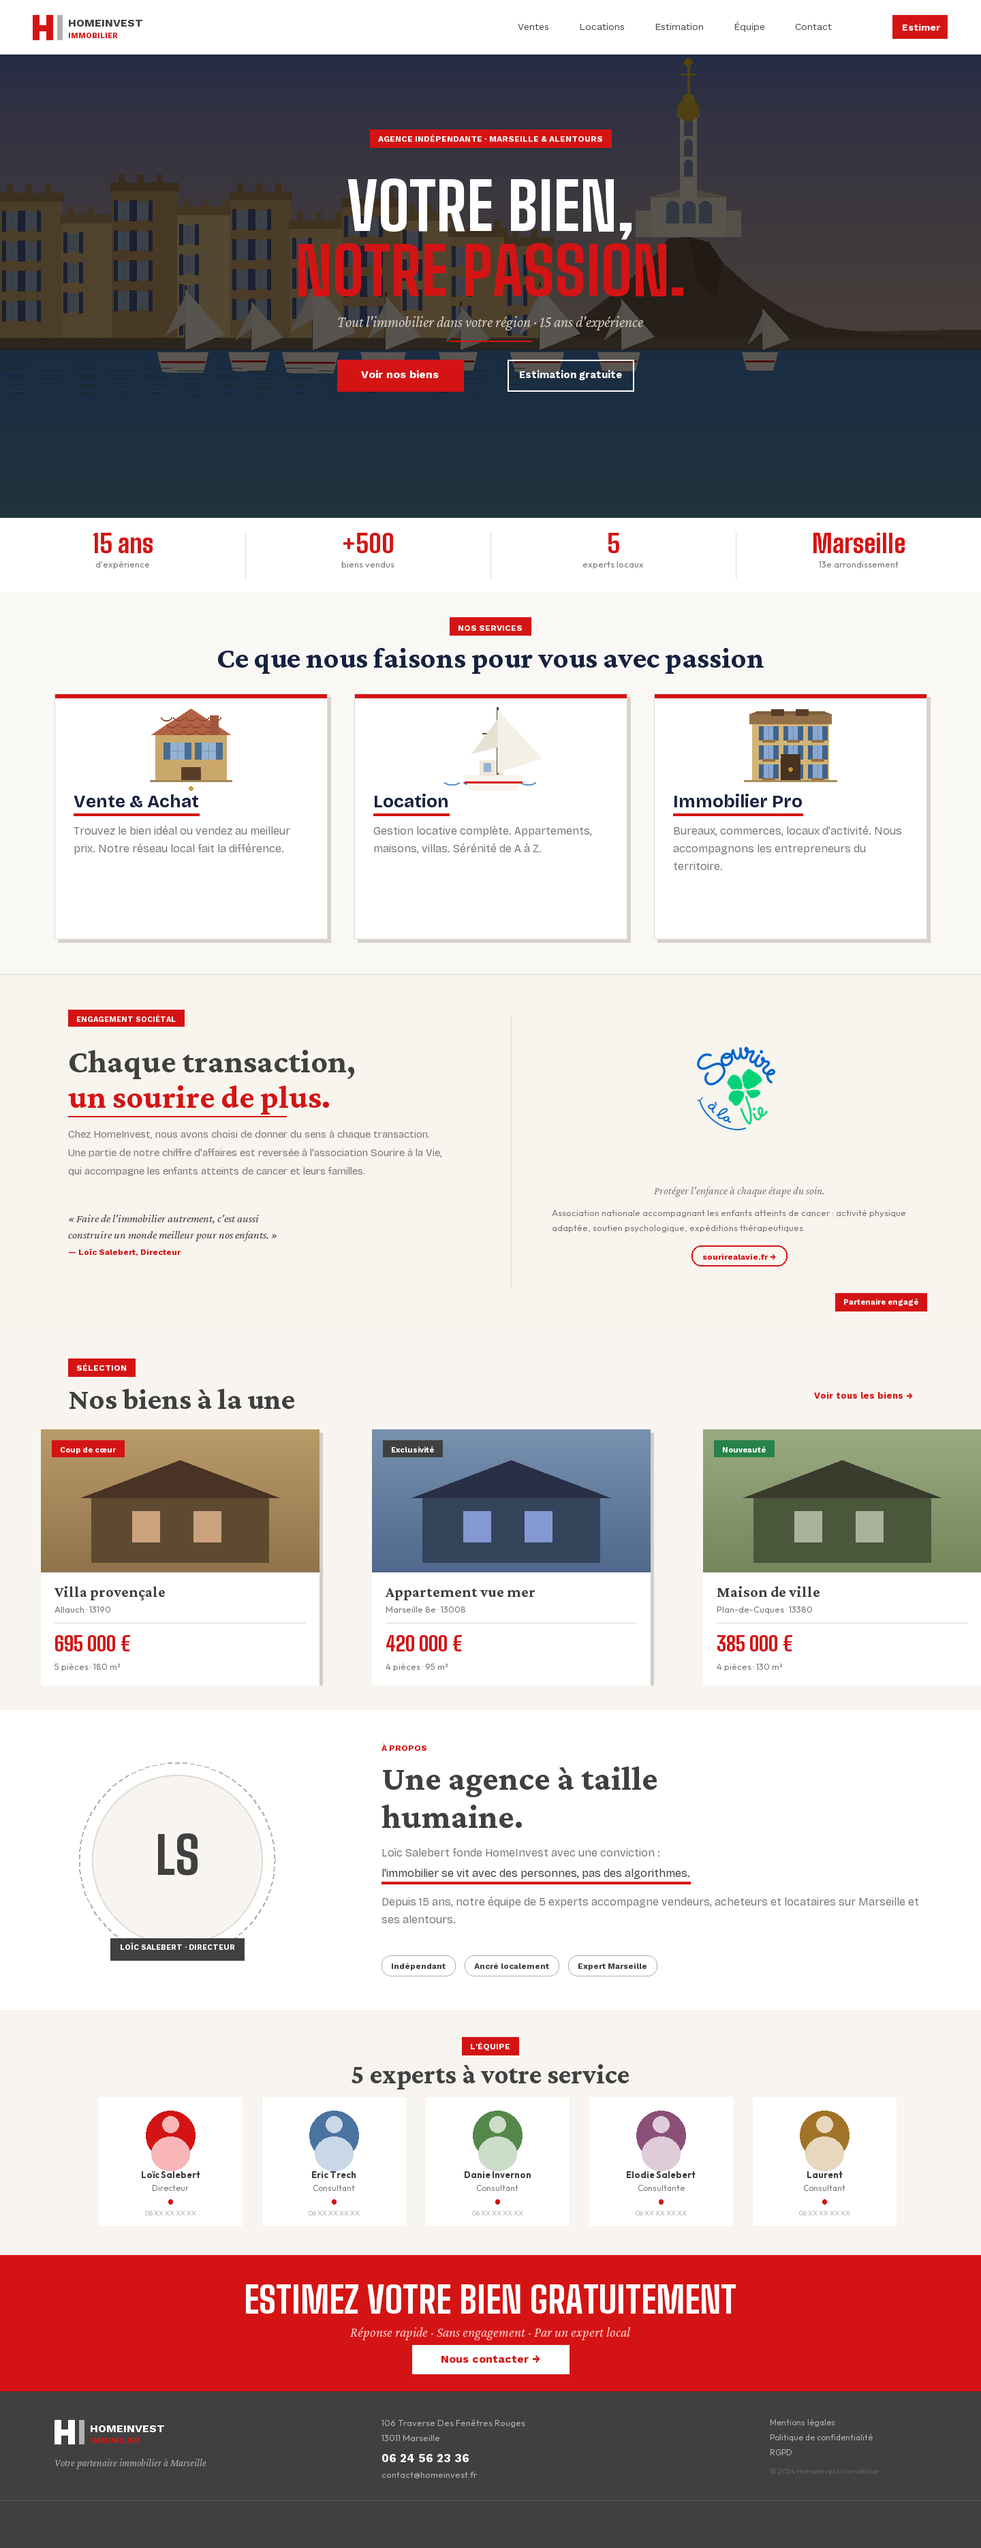
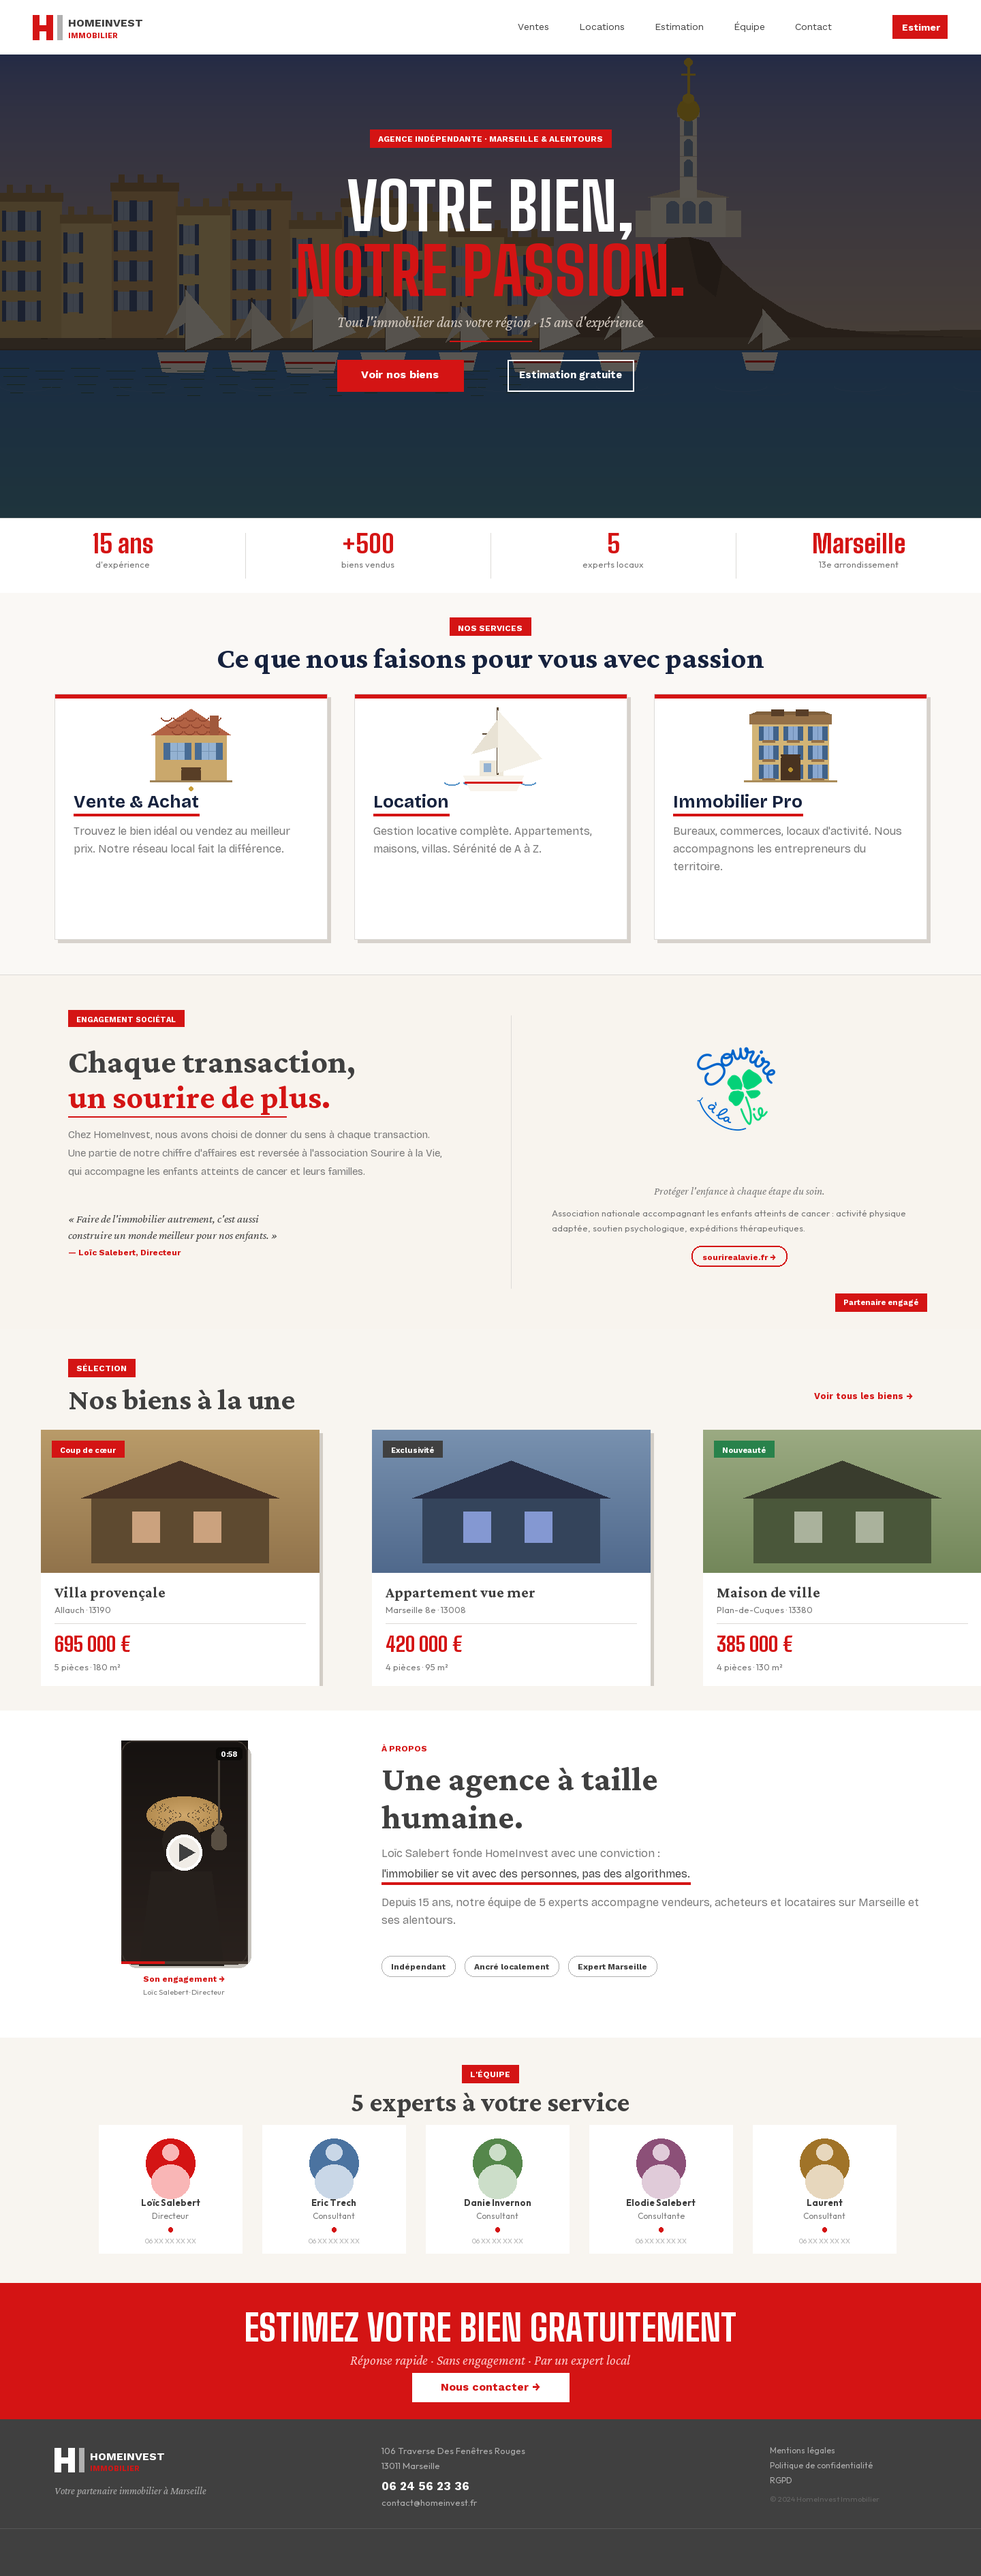
À Propos: placeholder vidéo vertical 9:16 (style short podcast)
- Remplace le cercle portrait par un player vidéo format short :
  fond sombre studio, halo lumière chaude, silhouette podcasteur,
  bras de micro, bouton play, badge durée, barre de progression rouge
- Section agrandie à 480px pour accueillir le player

diff --git a/generate_mockup.py b/generate_mockup.py
@@ -731,27 +731,93 @@ y += BIENS_H
 # ══════════════════════════════════════════════════════════
 #  6. À PROPOS
 # ══════════════════════════════════════════════════════════
-APROPS_H = 440
+APROPS_H = 480
 draw.rectangle([0, y, W, y+APROPS_H], fill=WHITE)
 
-# ── Left: circular portrait (Scale with Ouss style) ──
-ccx, ccy = 260, y+220
-cr = 125
+# ── Left: placeholder vidéo vertical (9:16, style short podcast) ──
+VID_W = 185
+VID_H = int(VID_W * 16 / 9)   # ≈ 329px
+vcx   = 270
+vx1   = vcx - VID_W // 2
+vy1   = y + 44
+vx2   = vx1 + VID_W
+vy2   = vy1 + VID_H
 
-# Outer dashed ring
-dashed_circle(ccx, ccy, cr+18, GRAY_LIGHT, width=2, dash=6, gap=5)
-# Circle fill
-draw.ellipse([ccx-cr, ccy-cr, ccx+cr, ccy+cr], fill=CREAM)
-draw.ellipse([ccx-cr, ccy-cr, ccx+cr, ccy+cr], outline=GRAY_PALE, width=2)
-# Initials
-iw = tlen("LS", BIG(75))
-draw.text((ccx-iw//2, ccy-52), "LS", font=BIG(75), fill=GRAY_DARK)
+# Ombre
+draw.rounded_rectangle([vx1+5, vy1+5, vx2+5, vy2+5], radius=18, fill=(200, 196, 190))
+# Fond sombre studio (dégradé bas→haut)
+for gi in range(VID_H):
+    t  = gi / VID_H
+    rc = int(22 + 20 * t)
+    gc = int(18 + 16 * t)
+    bc = int(16 + 14 * t)
+    draw.line([(vx1, vy1 + gi), (vx2, vy1 + gi)], fill=(rc, gc, bc))
+# Contour arrondi (par-dessus le dégradé)
+draw.rounded_rectangle([vx1, vy1, vx2, vy2], radius=18, outline=(55, 48, 42), width=2)
 
-# Name badge strip (Scale with Ouss style)
-badge_str = "LOÏC SALEBERT · DIRECTEUR"
-bsw = tlen(badge_str, WRKB(11)) + 28
-draw.rectangle([ccx-bsw//2, ccy+cr-10, ccx+bsw//2, ccy+cr+22], fill=GRAY_DARK)
-draw.text((ccx - tlen(badge_str, WRKB(11))//2, ccy+cr-4), badge_str, font=WRKB(11), fill=WHITE)
+# Halo lumière chaude de studio (spot derrière le sujet)
+for hr in range(55, 0, -1):
+    alpha = int(28 * (1 - hr / 55))
+    draw.ellipse([vcx - hr, vy1 + VID_H // 3 - hr // 2,
+                  vcx + hr, vy1 + VID_H // 3 + hr // 2],
+                 outline=(180 + alpha, 140 + alpha, 80 + alpha), width=1)
+
+# Silhouette podcasteur — buste + tête
+sil_cx  = vcx - 4
+bust_y  = vy2 - 30   # bas du buste
+neck_y  = vy1 + VID_H * 55 // 100
+head_cy = neck_y - 32
+# Épaules/buste
+draw.polygon([
+    (sil_cx - 62, vy2 + 2),
+    (sil_cx + 62, vy2 + 2),
+    (sil_cx + 44, neck_y + 12),
+    (sil_cx - 44, neck_y + 12),
+], fill=(38, 32, 28))
+# Cou
+draw.rectangle([sil_cx - 13, neck_y, sil_cx + 13, neck_y + 14], fill=(38, 32, 28))
+# Tête
+draw.ellipse([sil_cx - 28, head_cy - 30, sil_cx + 28, head_cy + 30], fill=(38, 32, 28))
+
+# Micro de studio (bras articulé + capsule)
+mic_arm_x = sil_cx + 55
+mic_arm_y = vy1 + 22
+mic_cap_y = head_cy - 16
+draw.line([(vx2 - 10, mic_arm_y), (mic_arm_x, mic_arm_y)], fill=(72, 64, 55), width=3)
+draw.line([(mic_arm_x, mic_arm_y), (mic_arm_x, mic_cap_y + 20)], fill=(72, 64, 55), width=3)
+draw.rounded_rectangle([mic_arm_x - 11, mic_cap_y, mic_arm_x + 11, mic_cap_y + 28],
+                        radius=8, fill=(88, 78, 66))
+draw.ellipse([mic_arm_x - 7, mic_cap_y - 8, mic_arm_x + 7, mic_cap_y + 2],
+             fill=(88, 78, 66))
+
+# Bouton play (cercle + triangle)
+play_cy = vy1 + VID_H // 2
+draw.ellipse([vcx - 26, play_cy - 26, vcx + 26, play_cy + 26], fill=(255, 255, 255))
+draw.ellipse([vcx - 22, play_cy - 22, vcx + 22, play_cy + 22], fill=(240, 236, 230))
+draw.polygon([
+    (vcx - 7, play_cy - 13),
+    (vcx - 7, play_cy + 13),
+    (vcx + 16, play_cy),
+], fill=GRAY_DARK)
+
+# Badge durée "0:58" (coin haut droit)
+dur_txt = "0:58"
+dur_w   = tlen(dur_txt, WRKB(11)) + 14
+draw.rounded_rectangle([vx2 - dur_w - 8, vy1 + 10, vx2 - 8, vy1 + 28],
+                        radius=5, fill=(12, 10, 8))
+draw.text((vx2 - dur_w - 1, vy1 + 13), dur_txt, font=WRKB(11), fill=WHITE)
+
+# Barre de progression rouge (35% lu)
+draw.rectangle([vx1, vy2 - 4, vx1 + int(VID_W * 0.35), vy2 - 1], fill=RED)
+draw.rectangle([vx1 + int(VID_W * 0.35), vy2 - 4, vx2, vy2 - 1], fill=(70, 60, 52))
+
+# Labels sous la vidéo
+vid_lbl = "Son engagement →"
+vlw = tlen(vid_lbl, WRKB(12))
+draw.text((vcx - vlw // 2, vy2 + 14), vid_lbl, font=WRKB(12), fill=RED)
+name_sub = "Loïc Salebert · Directeur"
+nsw = tlen(name_sub, OUTR(11))
+draw.text((vcx - nsw // 2, vy2 + 34), name_sub, font=OUTR(11), fill=GRAY_MED)
 
 # ── Right: text ──
 rx_ = 560
